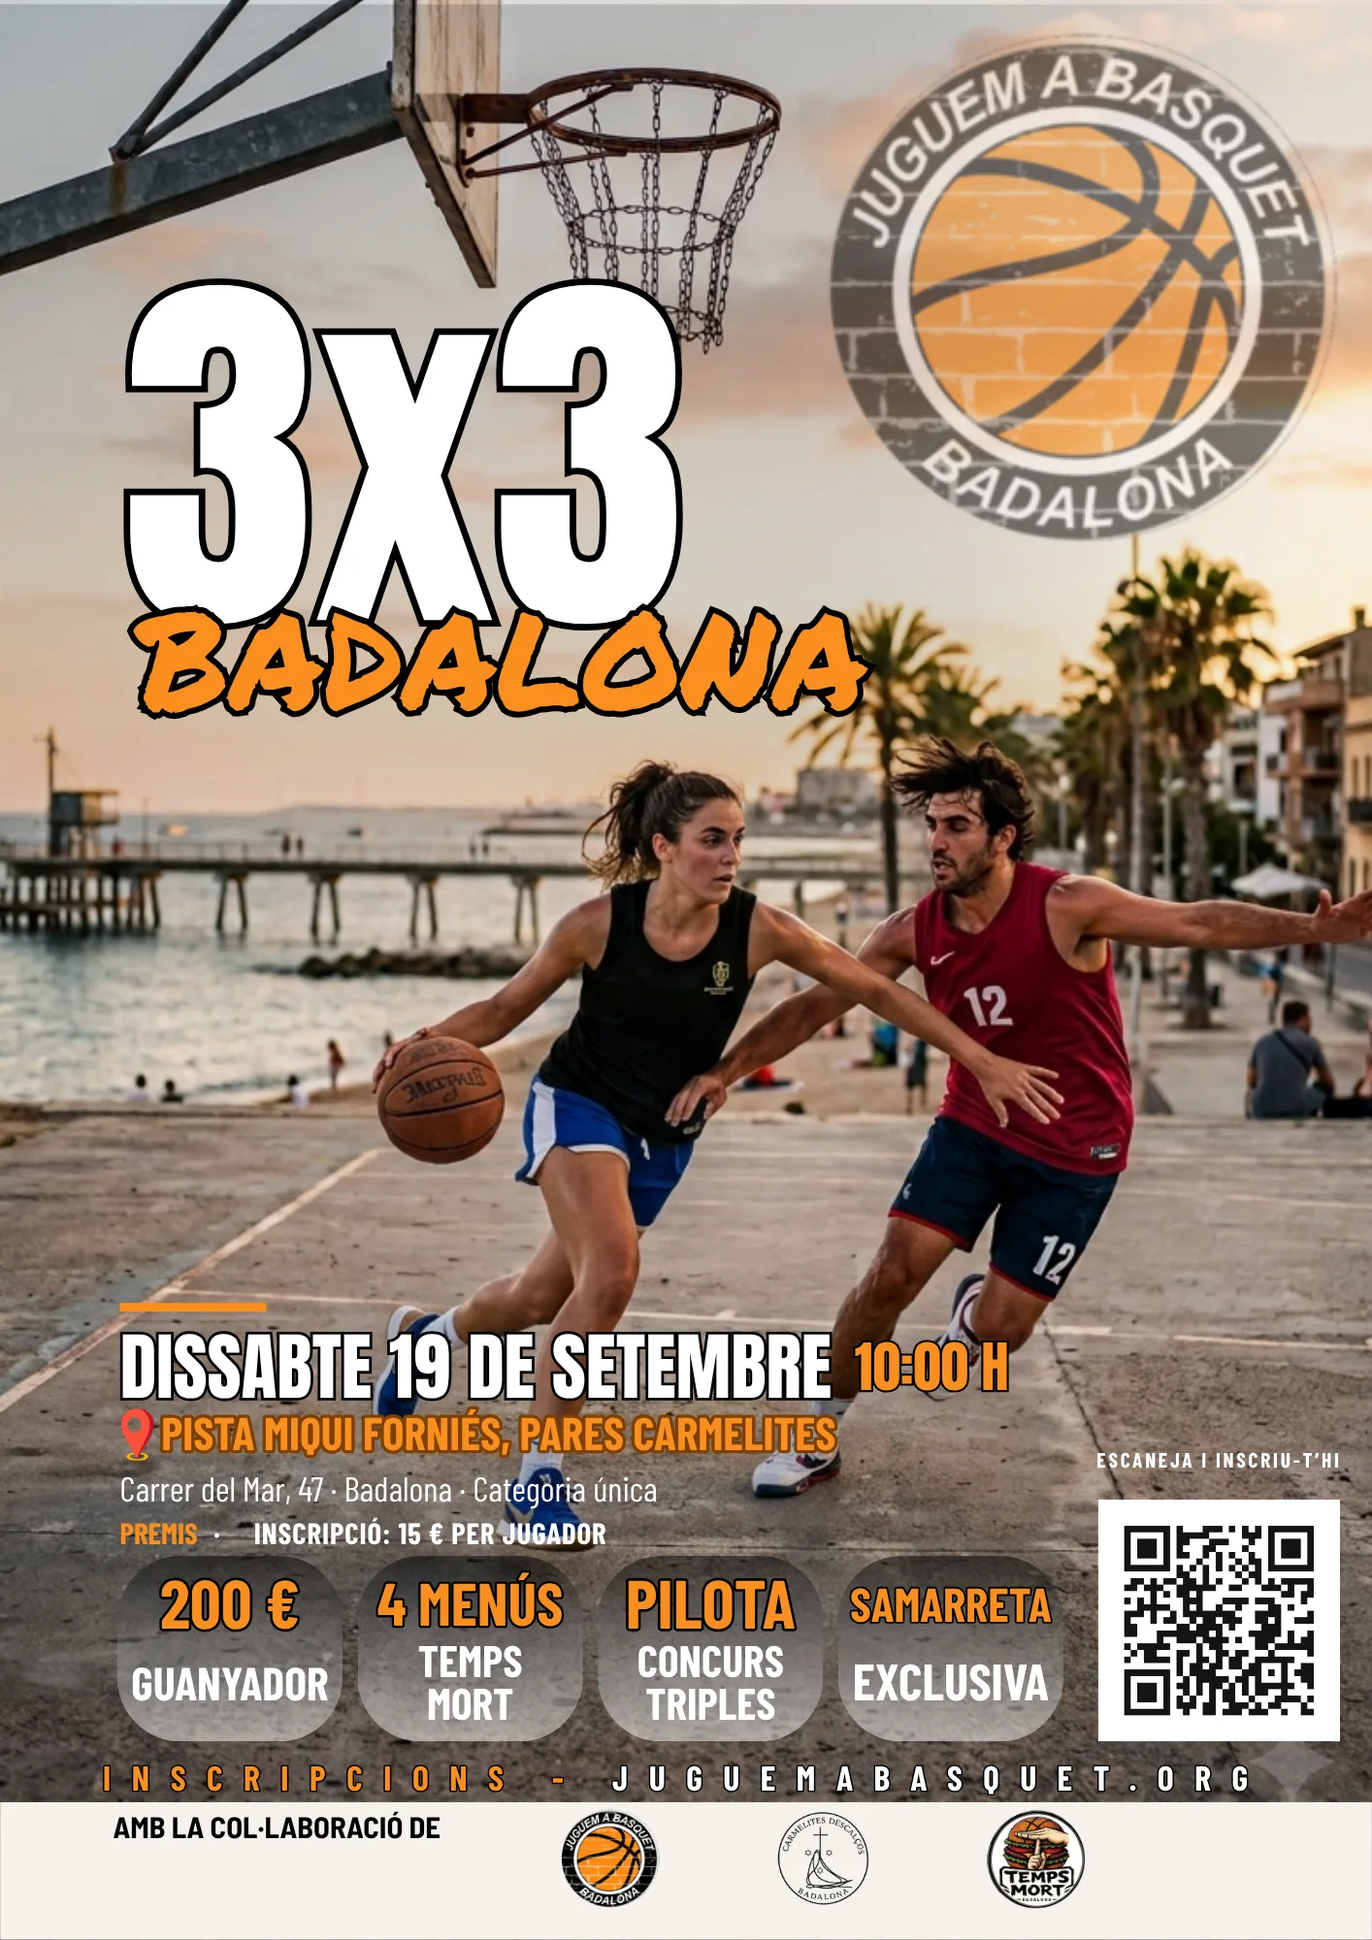
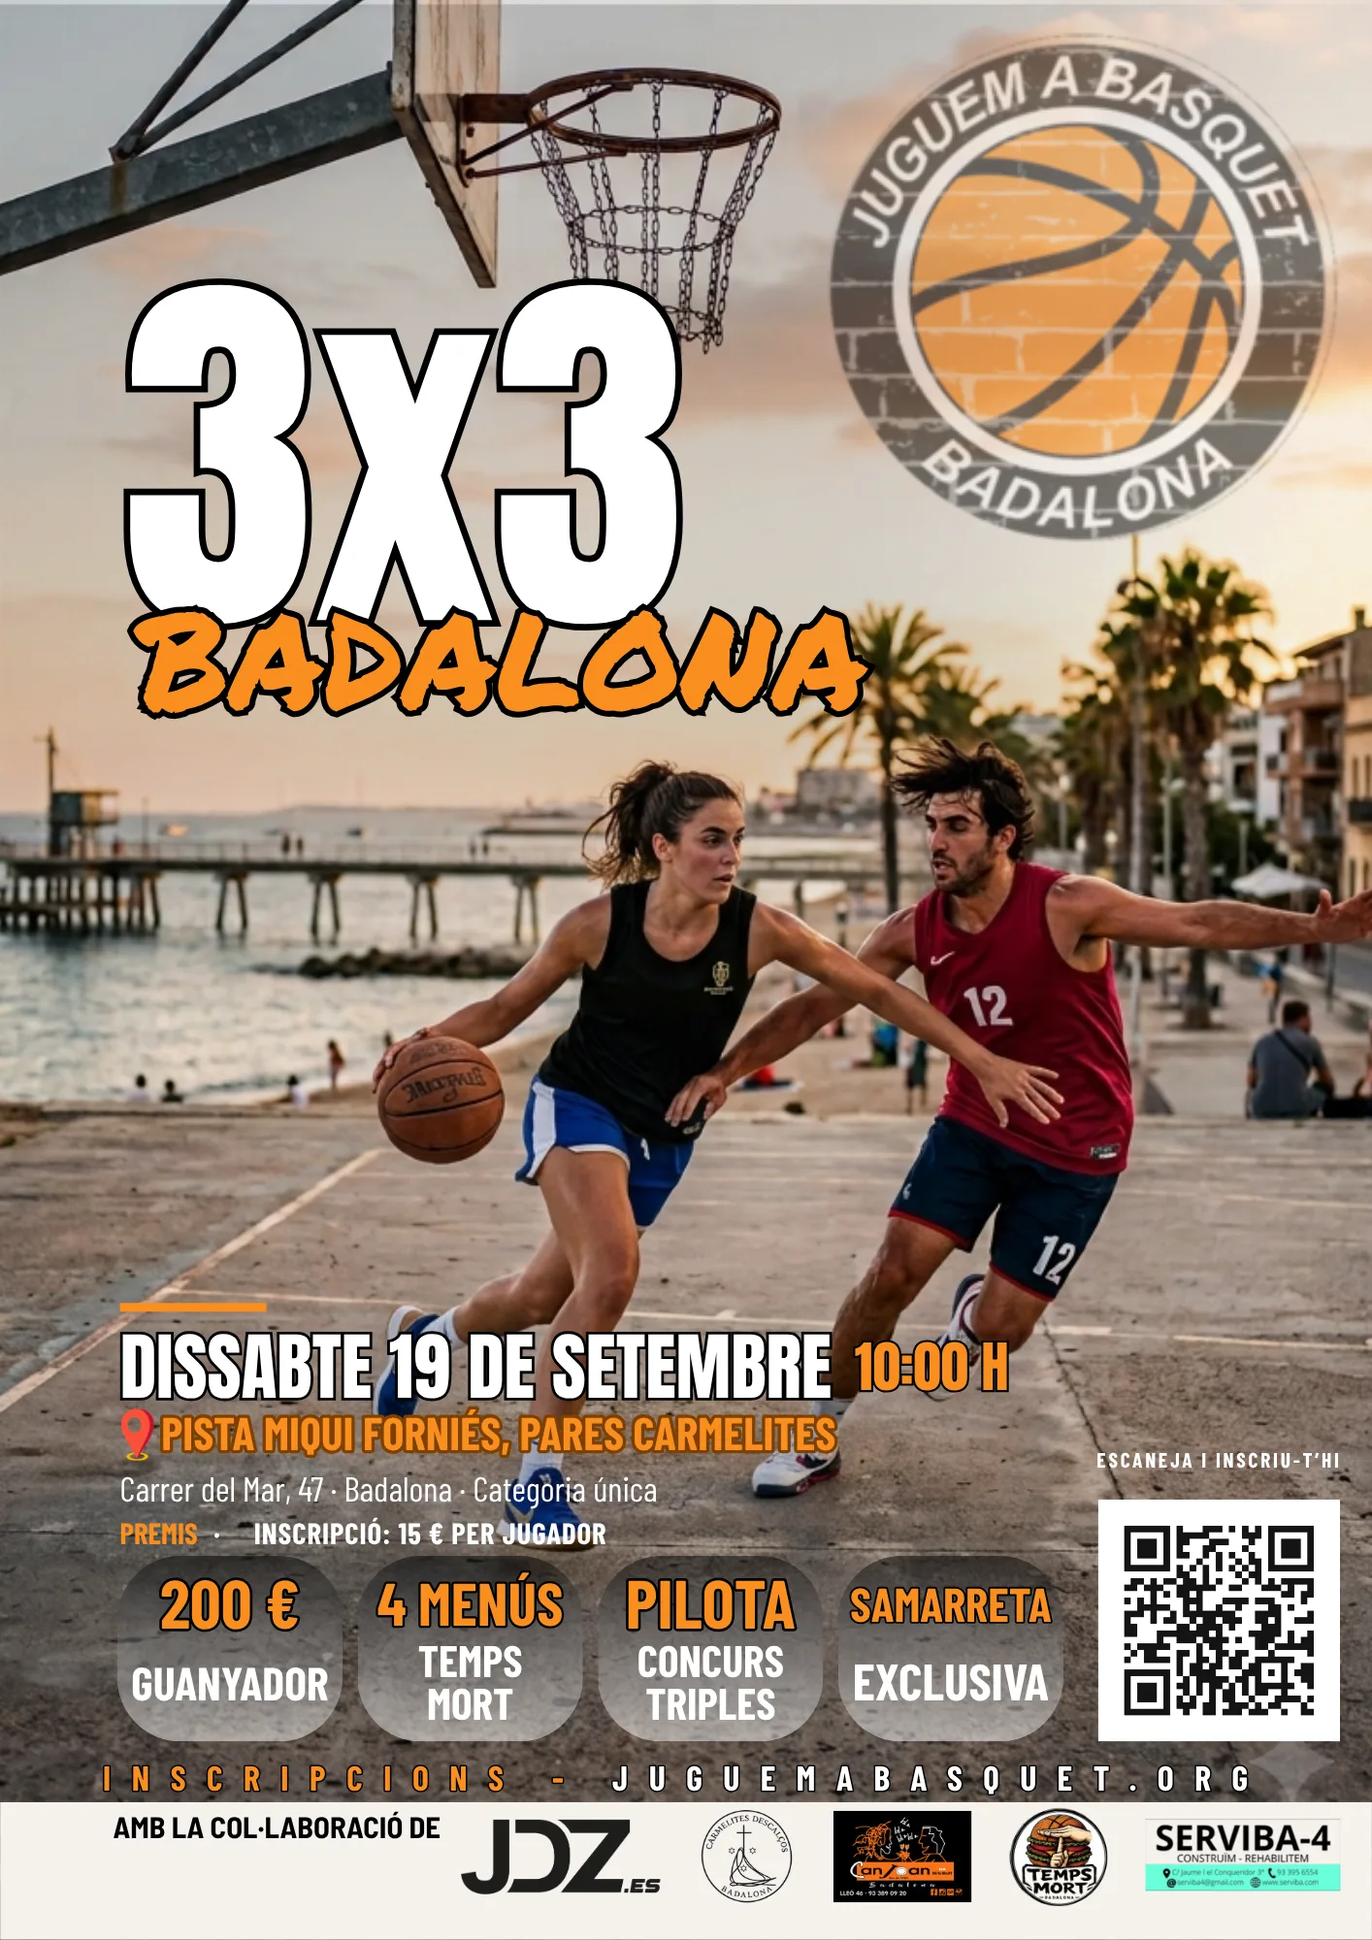
Update 3x3 Bizum phone number and refresh poster
- Change the Bizum payment phone number from 655 585 695 to 614 936 429
  across the event page and registration form (visible number, fallbacks
  and ca/en/es i18n blocks).
- Replace the 3x3 Carmelites poster (PNG) with the updated version that
  adds the collaborator logos, and regenerate the optimised WebP.

Changed region(s): [[0.529, 0.93, 0.8091, 0.992], [0.3423, 0.93, 0.4979, 0.992], [0.8402, 0.93, 0.9958, 0.992]]

diff --git a/events/3x3-carmelites-2026/inscripcio.html b/events/3x3-carmelites-2026/inscripcio.html
@@ -51,7 +51,7 @@
     <div class="bizum-icon">€</div>
     <div class="bizum-info">
       <div class="bizum-label" data-i18n="f.biz.label">Pagament · Bizum</div>
-      <div class="bizum-num">655 585 695</div>
+      <div class="bizum-num">614 936 429</div>
       <div class="bizum-price" data-i18n="f.biz.price">15€ per jugador · Concepte: nom de l'equip</div>
       <div style="margin-top:8px;font-size:12px;font-weight:700;color:#FF6A1A;display:flex;align-items:flex-start;gap:6px;"><svg class="ico" style="width:14px;height:14px;margin-top:1px;" viewBox="0 0 24 24" fill="none" stroke="currentColor" stroke-width="2" stroke-linecap="round" stroke-linejoin="round"><path d="M10.3 3.9 1.8 18a2 2 0 0 0 1.7 3h17a2 2 0 0 0 1.7-3L13.7 3.9a2 2 0 0 0-3.4 0Z"/><path d="M12 9v4M12 17h.01"/></svg><span data-i18n="f.biz.warning">El pagament s'ha de fer en el moment de la inscripció. Sense Bizum, l'equip no quedarà inclòs.</span></div>
     </div>
@@ -201,7 +201,7 @@
           <strong data-i18n="f.cond.title">Condicions de participació:</strong>
           <ul>
             <li data-i18n="f.cond.1">Cada equip ha d'estar format per 3 o 4 jugadors/es (mínim 3).</li>
-            <li data-i18n="f.cond.2">El pagament s'ha de fer <strong>en el moment de la inscripció</strong>. Sense Bizum al <strong>655 585 695</strong>, l'equip no quedarà inclòs al torneig.</li>
+            <li data-i18n="f.cond.2">El pagament s'ha de fer <strong>en el moment de la inscripció</strong>. Sense Bizum al <strong>614 936 429</strong>, l'equip no quedarà inclòs al torneig.</li>
             <li data-i18n="f.cond.3">Preu: <strong>15€ per jugador</strong>. Concepte: nom de l'equip.</li>
             <li data-i18n="f.cond.4">Les inscripcions estan subjectes a disponibilitat de places.</li>
             <li data-i18n="f.cond.5">L'organització es reserva el dret d'admissió i de modificar l'horari si cal.</li>
@@ -221,7 +221,7 @@
     <!-- SUBMIT -->
     <div class="submit-area">
       <button type="submit" class="btn-submit" data-i18n="f.submit">Inscriure l'equip</button>
-      <div class="submit-note" data-i18n="f.submit.note">Recorda fer el Bizum de 15€ per jugador al 655 585 695 ara mateix · Sense pagament l'equip no quedarà inclòs</div>
+      <div class="submit-note" data-i18n="f.submit.note">Recorda fer el Bizum de 15€ per jugador al 614 936 429 ara mateix · Sense pagament l'equip no quedarà inclòs</div>
     </div>
 
   </form>
@@ -230,7 +230,7 @@
   <div class="success-screen" id="success-screen">
     <div class="success-icon"><svg viewBox="0 0 24 24" fill="none" stroke="currentColor" stroke-width="2" stroke-linecap="round" stroke-linejoin="round"><circle cx="12" cy="12" r="10"/><path d="m8.5 12.5 2.5 2.5 4.5-5"/></svg></div>
     <div class="success-title" data-i18n="f.ok.title">Equip <span>inscrit!</span></div>
-    <p class="success-text" data-i18n="f.ok.text">Hem rebut el formulari. <strong>Feu el Bizum de 15€ per jugador al 655 585 695 ara mateix</strong> amb el concepte: nom de l'equip.<br><br>Sense pagament, l'equip no quedarà inclòs al torneig. Rebreu la confirmació de plaça per email el <strong>17 de setembre</strong>.</p>
+    <p class="success-text" data-i18n="f.ok.text">Hem rebut el formulari. <strong>Feu el Bizum de 15€ per jugador al 614 936 429 ara mateix</strong> amb el concepte: nom de l'equip.<br><br>Sense pagament, l'equip no quedarà inclòs al torneig. Rebreu la confirmació de plaça per email el <strong>17 de setembre</strong>.</p>
   </div>
 
 </div>
@@ -279,7 +279,7 @@ const TRAD = {
     'f.c5.title': 'Reglament i confirmació',
     'f.cond.title': 'Condicions de participació:',
     'f.cond.1': "Cada equip ha d'estar format per 3 o 4 jugadors/es (mínim 3).",
-    'f.cond.2': 'El pagament s\'ha de fer <strong>en el moment de la inscripció</strong>. Sense Bizum al <strong>655 585 695</strong>, l\'equip no quedarà inclòs al torneig.',
+    'f.cond.2': 'El pagament s\'ha de fer <strong>en el moment de la inscripció</strong>. Sense Bizum al <strong>614 936 429</strong>, l\'equip no quedarà inclòs al torneig.',
     'f.cond.3': 'Preu: <strong>15€ per jugador</strong>. Concepte: nom de l\'equip.',
     'f.cond.4': 'Les inscripcions estan subjectes a disponibilitat de places.',
     'f.cond.5': "L'organització es reserva el dret d'admissió i de modificar l'horari si cal.",
@@ -287,9 +287,9 @@ const TRAD = {
     'f.download': 'Descarregar PDF',
     'f.check': 'He llegit i accepto les condicions de participació i el <a href="#" onclick="event.preventDefault();document.getElementById(\'reg-modal\').classList.add(\'open\')">reglament del torneig 3x3</a> de Juguem a Bàsquet. <span class="req">*</span>',
     'f.submit': "Inscriure l'equip",
-    'f.submit.note': 'Recorda fer el Bizum de 15€ per jugador al 655 585 695 ara mateix · Sense pagament l\'equip no quedarà inclòs',
+    'f.submit.note': 'Recorda fer el Bizum de 15€ per jugador al 614 936 429 ara mateix · Sense pagament l\'equip no quedarà inclòs',
     'f.ok.title': 'Equip <span>inscrit!</span>',
-    'f.ok.text': 'Hem rebut el formulari. <strong>Feu el Bizum de 15€ per jugador al 655 585 695 ara mateix</strong> amb el concepte: nom de l\'equip.<br><br>Sense pagament, l\'equip no quedarà inclòs al torneig. Rebreu la confirmació de plaça per email el <strong>17 de setembre</strong>.',
+    'f.ok.text': 'Hem rebut el formulari. <strong>Feu el Bizum de 15€ per jugador al 614 936 429 ara mateix</strong> amb el concepte: nom de l\'equip.<br><br>Sense pagament, l\'equip no quedarà inclòs al torneig. Rebreu la confirmació de plaça per email el <strong>17 de setembre</strong>.',
     'f.footer': '← Juguem a Bàsquet · Badalona',
     'reg.title': 'Reglament del Torneig 3x3',
     'reg.sub': 'Associació Juguem a Bàsquet · Pista Miqui Forniés (Pares Carmelites) · 19 setembre 2026',
@@ -372,7 +372,7 @@ const TRAD = {
     'f.c5.title': 'Rules & confirmation',
     'f.cond.title': 'Participation conditions:',
     'f.cond.1': 'Each team must have 3 or 4 players (minimum 3).',
-    'f.cond.2': 'Payment must be made <strong>at the time of registration</strong>. Without Bizum to <strong>655 585 695</strong>, the team will not be included in the tournament.',
+    'f.cond.2': 'Payment must be made <strong>at the time of registration</strong>. Without Bizum to <strong>614 936 429</strong>, the team will not be included in the tournament.',
     'f.cond.3': 'Fee: <strong>15€ per player</strong>. Reference: team name.',
     'f.cond.4': 'Registrations are subject to availability.',
     'f.cond.5': 'The organisation reserves the right of admission and to modify the schedule if necessary.',
@@ -380,9 +380,9 @@ const TRAD = {
     'f.download': 'Download PDF',
     'f.check': 'I have read and accept the participation conditions and the <a href="#" onclick="event.preventDefault();document.getElementById(\'reg-modal\').classList.add(\'open\')">3x3 tournament rules</a> of Juguem a Bàsquet. <span class="req">*</span>',
     'f.submit': 'Register your team',
-    'f.submit.note': 'Send the 15€ per player Bizum to 655 585 695 now · Without payment the team will not be included',
+    'f.submit.note': 'Send the 15€ per player Bizum to 614 936 429 now · Without payment the team will not be included',
     'f.ok.title': 'Team <span>registered!</span>',
-    'f.ok.text': 'We have received your form. <strong>Send the 15€ per player Bizum to 655 585 695 now</strong> with your team name as reference.<br><br>Without payment, the team will not be included in the tournament. Place confirmation will be sent by email on <strong>17 September</strong>.',
+    'f.ok.text': 'We have received your form. <strong>Send the 15€ per player Bizum to 614 936 429 now</strong> with your team name as reference.<br><br>Without payment, the team will not be included in the tournament. Place confirmation will be sent by email on <strong>17 September</strong>.',
     'f.footer': '← Juguem a Bàsquet · Badalona',
     'reg.title': '3x3 Tournament Rules',
     'reg.sub': 'Juguem a Bàsquet Association · Miqui Forniés Court (Carmelite Fathers) · 19 September 2026',
@@ -465,7 +465,7 @@ const TRAD = {
     'f.c5.title': 'Reglamento y confirmación',
     'f.cond.title': 'Condiciones de participación:',
     'f.cond.1': 'Cada equipo debe estar formado por 3 o 4 jugadores/as (mínimo 3).',
-    'f.cond.2': 'El pago debe realizarse <strong>en el momento de la inscripción</strong>. Sin Bizum al <strong>655 585 695</strong>, el equipo no quedará incluido en el torneo.',
+    'f.cond.2': 'El pago debe realizarse <strong>en el momento de la inscripción</strong>. Sin Bizum al <strong>614 936 429</strong>, el equipo no quedará incluido en el torneo.',
     'f.cond.3': 'Precio: <strong>15€ por jugador</strong>. Concepto: nombre del equipo.',
     'f.cond.4': 'Las inscripciones están sujetas a disponibilidad de plazas.',
     'f.cond.5': 'La organización se reserva el derecho de admisión y de modificar el horario si es necesario.',
@@ -473,9 +473,9 @@ const TRAD = {
     'f.download': 'Descargar PDF',
     'f.check': 'He leído y acepto las condiciones de participación y el <a href="#" onclick="event.preventDefault();document.getElementById(\'reg-modal\').classList.add(\'open\')">reglamento del torneo 3x3</a> de Juguem a Bàsquet. <span class="req">*</span>',
     'f.submit': 'Inscribir el equipo',
-    'f.submit.note': 'Haz el Bizum de 15€ por jugador al 655 585 695 ahora mismo · Sin pago el equipo no quedará incluido',
+    'f.submit.note': 'Haz el Bizum de 15€ por jugador al 614 936 429 ahora mismo · Sin pago el equipo no quedará incluido',
     'f.ok.title': 'Equipo <span>inscrito!</span>',
-    'f.ok.text': 'Hemos recibido el formulario. <strong>Haced el Bizum de 15€ por jugador al 655 585 695 ahora mismo</strong> con el nombre del equipo como concepto.<br><br>Sin pago, el equipo no quedará incluido en el torneo. Recibiréis la confirmación de plaza por email el <strong>17 de septiembre</strong>.',
+    'f.ok.text': 'Hemos recibido el formulario. <strong>Haced el Bizum de 15€ por jugador al 614 936 429 ahora mismo</strong> con el nombre del equipo como concepto.<br><br>Sin pago, el equipo no quedará incluido en el torneo. Recibiréis la confirmación de plaza por email el <strong>17 de septiembre</strong>.',
     'f.footer': '← Juguem a Bàsquet · Badalona',
     'reg.title': 'Reglamento del Torneo 3x3',
     'reg.sub': 'Asociación Juguem a Bàsquet · Pista Miqui Forniés (Padres Carmelitas) · 19 septiembre 2026',

diff --git a/events/3x3-carmelites-2026/index.html b/events/3x3-carmelites-2026/index.html
@@ -152,7 +152,7 @@ const TRAD = {
     'f.c5.title': 'Reglament i confirmació',
     'f.cond.title': 'Condicions de participació:',
     'f.cond.1': "Cada equip ha d'estar format per 4 jugadors.",
-    'f.cond.2': 'El pagament s\'ha de fer <strong>en el moment de la inscripció</strong>. Sense Bizum al <strong>655 585 695</strong>, l\'equip no quedarà inclòs al torneig.',
+    'f.cond.2': 'El pagament s\'ha de fer <strong>en el moment de la inscripció</strong>. Sense Bizum al <strong>614 936 429</strong>, l\'equip no quedarà inclòs al torneig.',
     'f.cond.3': 'Preu: <strong>15€ per jugador</strong>. Concepte: nom de l\'equip.',
     'f.cond.4': 'Les inscripcions estan subjectes a disponibilitat de places.',
     'f.cond.5': "L'organització es reserva el dret d'admissió i de modificar l'horari si cal.",
@@ -160,9 +160,9 @@ const TRAD = {
     'f.download': 'Descarregar PDF',
     'f.check': 'He llegit i accepto les condicions de participació i el <a href="#" onclick="event.preventDefault();document.getElementById(\'reg-modal\').classList.add(\'open\')">reglament del torneig 3x3</a> de Juguem a Bàsquet. <span class="req">*</span>',
     'f.submit': "Inscriure l'equip",
-    'f.submit.note': 'Recorda fer el Bizum de 15€ per jugador al 655 585 695 ara mateix · Sense pagament l\'equip no quedarà inclòs',
+    'f.submit.note': 'Recorda fer el Bizum de 15€ per jugador al 614 936 429 ara mateix · Sense pagament l\'equip no quedarà inclòs',
     'f.ok.title': 'Equip <span>inscrit!</span>',
-    'f.ok.text': 'Hem rebut el formulari. <strong>Feu el Bizum de 15€ per jugador al 655 585 695 ara mateix</strong> amb el concepte: nom de l\'equip.<br><br>Sense pagament, l\'equip no quedarà inclòs al torneig. Rebreu la confirmació de plaça per email el <strong>17 de setembre</strong>.',
+    'f.ok.text': 'Hem rebut el formulari. <strong>Feu el Bizum de 15€ per jugador al 614 936 429 ara mateix</strong> amb el concepte: nom de l\'equip.<br><br>Sense pagament, l\'equip no quedarà inclòs al torneig. Rebreu la confirmació de plaça per email el <strong>17 de setembre</strong>.',
     'f.footer': '← Juguem a Bàsquet · Badalona',
     'c.cta': 'Inscriu el teu equip →', 'c.ig': 'Segueix @juguemabasquet per més info →',
     'c.prizes.label': 'Premis',
@@ -214,7 +214,7 @@ const TRAD = {
     'f.c5.title': 'Rules & confirmation',
     'f.cond.title': 'Participation conditions:',
     'f.cond.1': 'Each team must have 4 players.',
-    'f.cond.2': 'Payment must be made <strong>at the time of registration</strong>. Without Bizum to <strong>655 585 695</strong>, the team will not be included in the tournament.',
+    'f.cond.2': 'Payment must be made <strong>at the time of registration</strong>. Without Bizum to <strong>614 936 429</strong>, the team will not be included in the tournament.',
     'f.cond.3': 'Fee: <strong>15€ per player</strong>. Reference: team name.',
     'f.cond.4': 'Registrations are subject to availability.',
     'f.cond.5': 'The organisation reserves the right of admission and to modify the schedule if necessary.',
@@ -222,9 +222,9 @@ const TRAD = {
     'f.download': 'Download PDF',
     'f.check': 'I have read and accept the participation conditions and the <a href="#" onclick="event.preventDefault();document.getElementById(\'reg-modal\').classList.add(\'open\')">3x3 tournament rules</a> of Juguem a Bàsquet. <span class="req">*</span>',
     'f.submit': 'Register your team',
-    'f.submit.note': 'Send the 15€ per player Bizum to 655 585 695 now · Without payment the team will not be included',
+    'f.submit.note': 'Send the 15€ per player Bizum to 614 936 429 now · Without payment the team will not be included',
     'f.ok.title': 'Team <span>registered!</span>',
-    'f.ok.text': 'We have received your form. <strong>Send the 15€ per player Bizum to 655 585 695 now</strong> with your team name as reference.<br><br>Without payment, the team will not be included in the tournament. Place confirmation will be sent by email on <strong>17 September</strong>.',
+    'f.ok.text': 'We have received your form. <strong>Send the 15€ per player Bizum to 614 936 429 now</strong> with your team name as reference.<br><br>Without payment, the team will not be included in the tournament. Place confirmation will be sent by email on <strong>17 September</strong>.',
     'f.footer': '← Juguem a Bàsquet · Badalona',
     'c.cta': 'Sign up your team →', 'c.ig': 'Follow @juguemabasquet for more info →',
     'c.prizes.label': 'Prizes',
@@ -276,7 +276,7 @@ const TRAD = {
     'f.c5.title': 'Reglamento y confirmación',
     'f.cond.title': 'Condiciones de participación:',
     'f.cond.1': 'Cada equipo debe estar formado por 4 jugadores.',
-    'f.cond.2': 'El pago debe realizarse <strong>en el momento de la inscripción</strong>. Sin Bizum al <strong>655 585 695</strong>, el equipo no quedará incluido en el torneo.',
+    'f.cond.2': 'El pago debe realizarse <strong>en el momento de la inscripción</strong>. Sin Bizum al <strong>614 936 429</strong>, el equipo no quedará incluido en el torneo.',
     'f.cond.3': 'Precio: <strong>15€ por jugador</strong>. Concepto: nombre del equipo.',
     'f.cond.4': 'Las inscripciones están sujetas a disponibilidad de plazas.',
     'f.cond.5': 'La organización se reserva el derecho de admisión y de modificar el horario si es necesario.',
@@ -284,9 +284,9 @@ const TRAD = {
     'f.download': 'Descargar PDF',
     'f.check': 'He leído y acepto las condiciones de participación y el <a href="#" onclick="event.preventDefault();document.getElementById(\'reg-modal\').classList.add(\'open\')">reglamento del torneo 3x3</a> de Juguem a Bàsquet. <span class="req">*</span>',
     'f.submit': 'Inscribir el equipo',
-    'f.submit.note': 'Haz el Bizum de 15€ por jugador al 655 585 695 ahora mismo · Sin pago el equipo no quedará incluido',
+    'f.submit.note': 'Haz el Bizum de 15€ por jugador al 614 936 429 ahora mismo · Sin pago el equipo no quedará incluido',
     'f.ok.title': 'Equipo <span>inscrito!</span>',
-    'f.ok.text': 'Hemos recibido el formulario. <strong>Haced el Bizum de 15€ por jugador al 655 585 695 ahora mismo</strong> con el nombre del equipo como concepto.<br><br>Sin pago, el equipo no quedará incluido en el torneo. Recibiréis la confirmación de plaza por email el <strong>17 de septiembre</strong>.',
+    'f.ok.text': 'Hemos recibido el formulario. <strong>Haced el Bizum de 15€ por jugador al 614 936 429 ahora mismo</strong> con el nombre del equipo como concepto.<br><br>Sin pago, el equipo no quedará incluido en el torneo. Recibiréis la confirmación de plaza por email el <strong>17 de septiembre</strong>.',
     'f.footer': '← Juguem a Bàsquet · Badalona',
     'c.cta': 'Inscribe a tu equipo →', 'c.ig': 'Sigue @juguemabasquet para más info →',
     'c.prizes.label': 'Premios',
